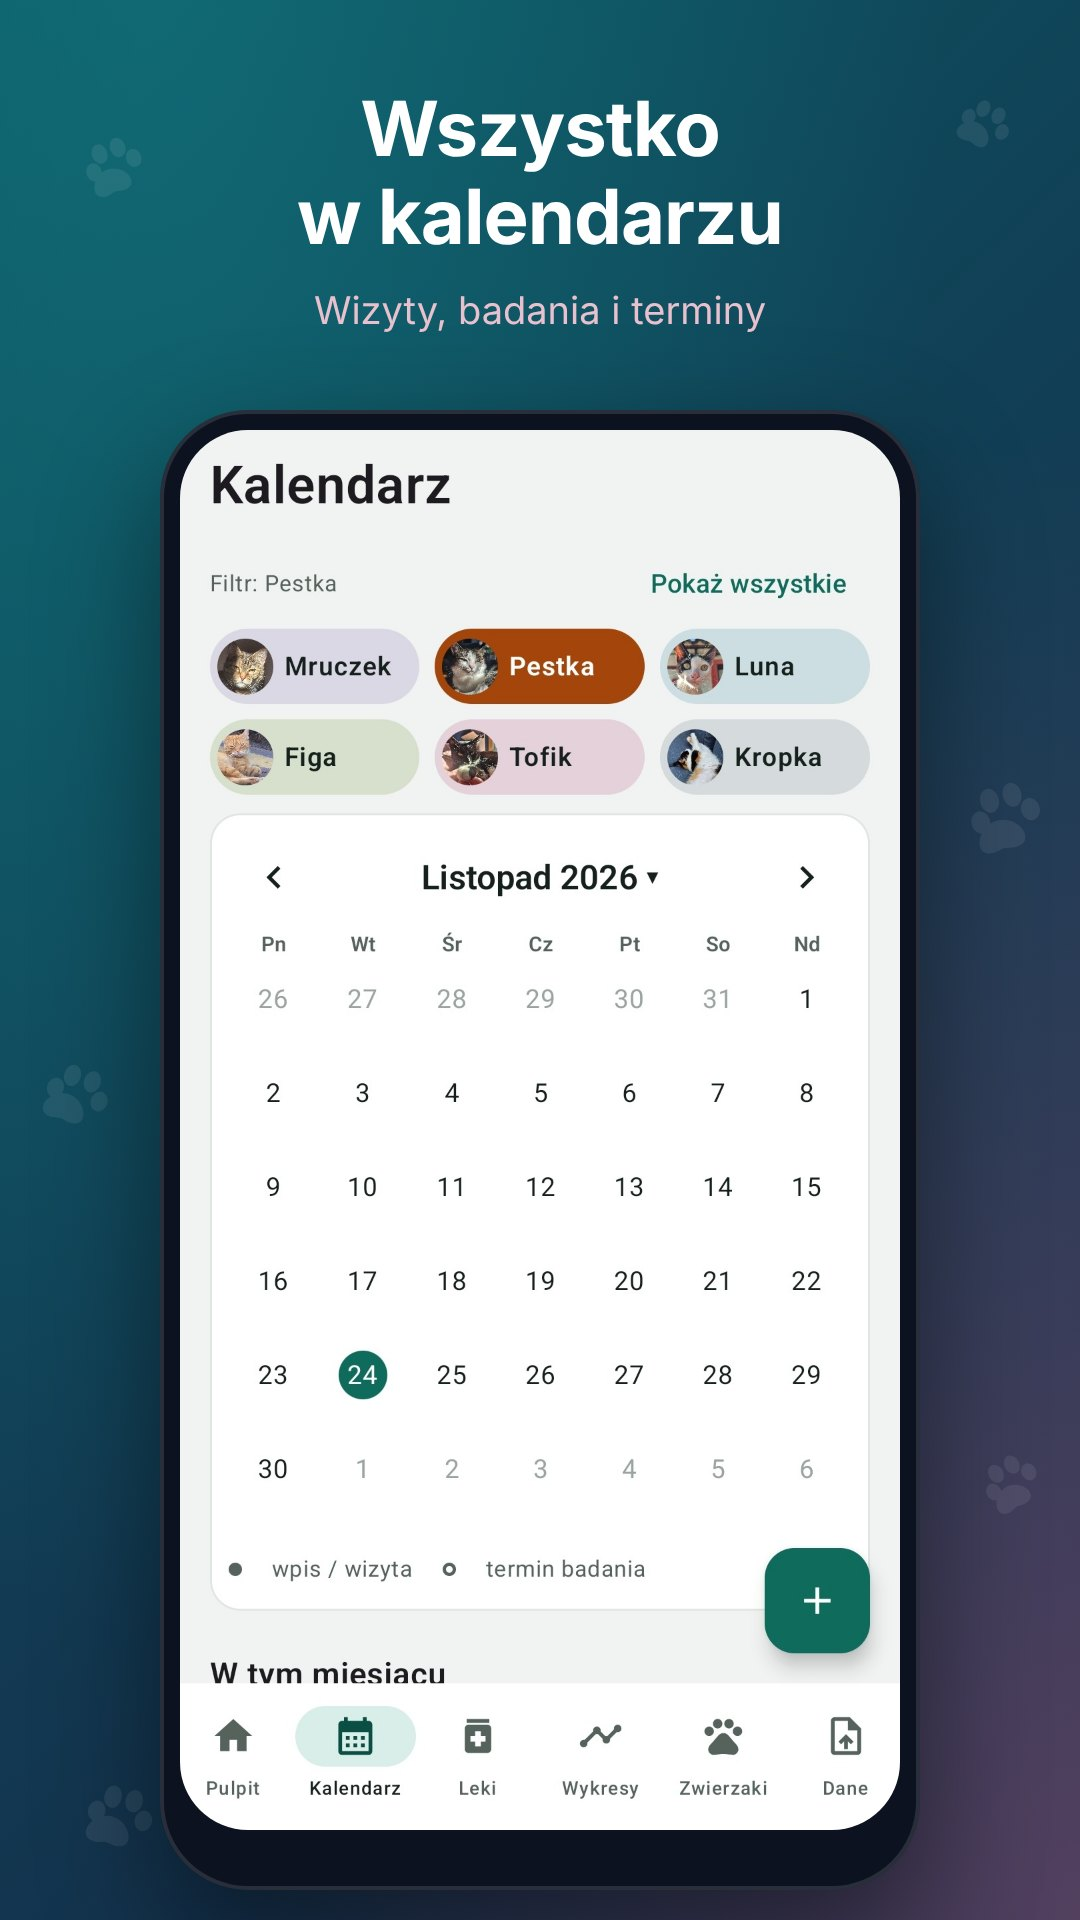
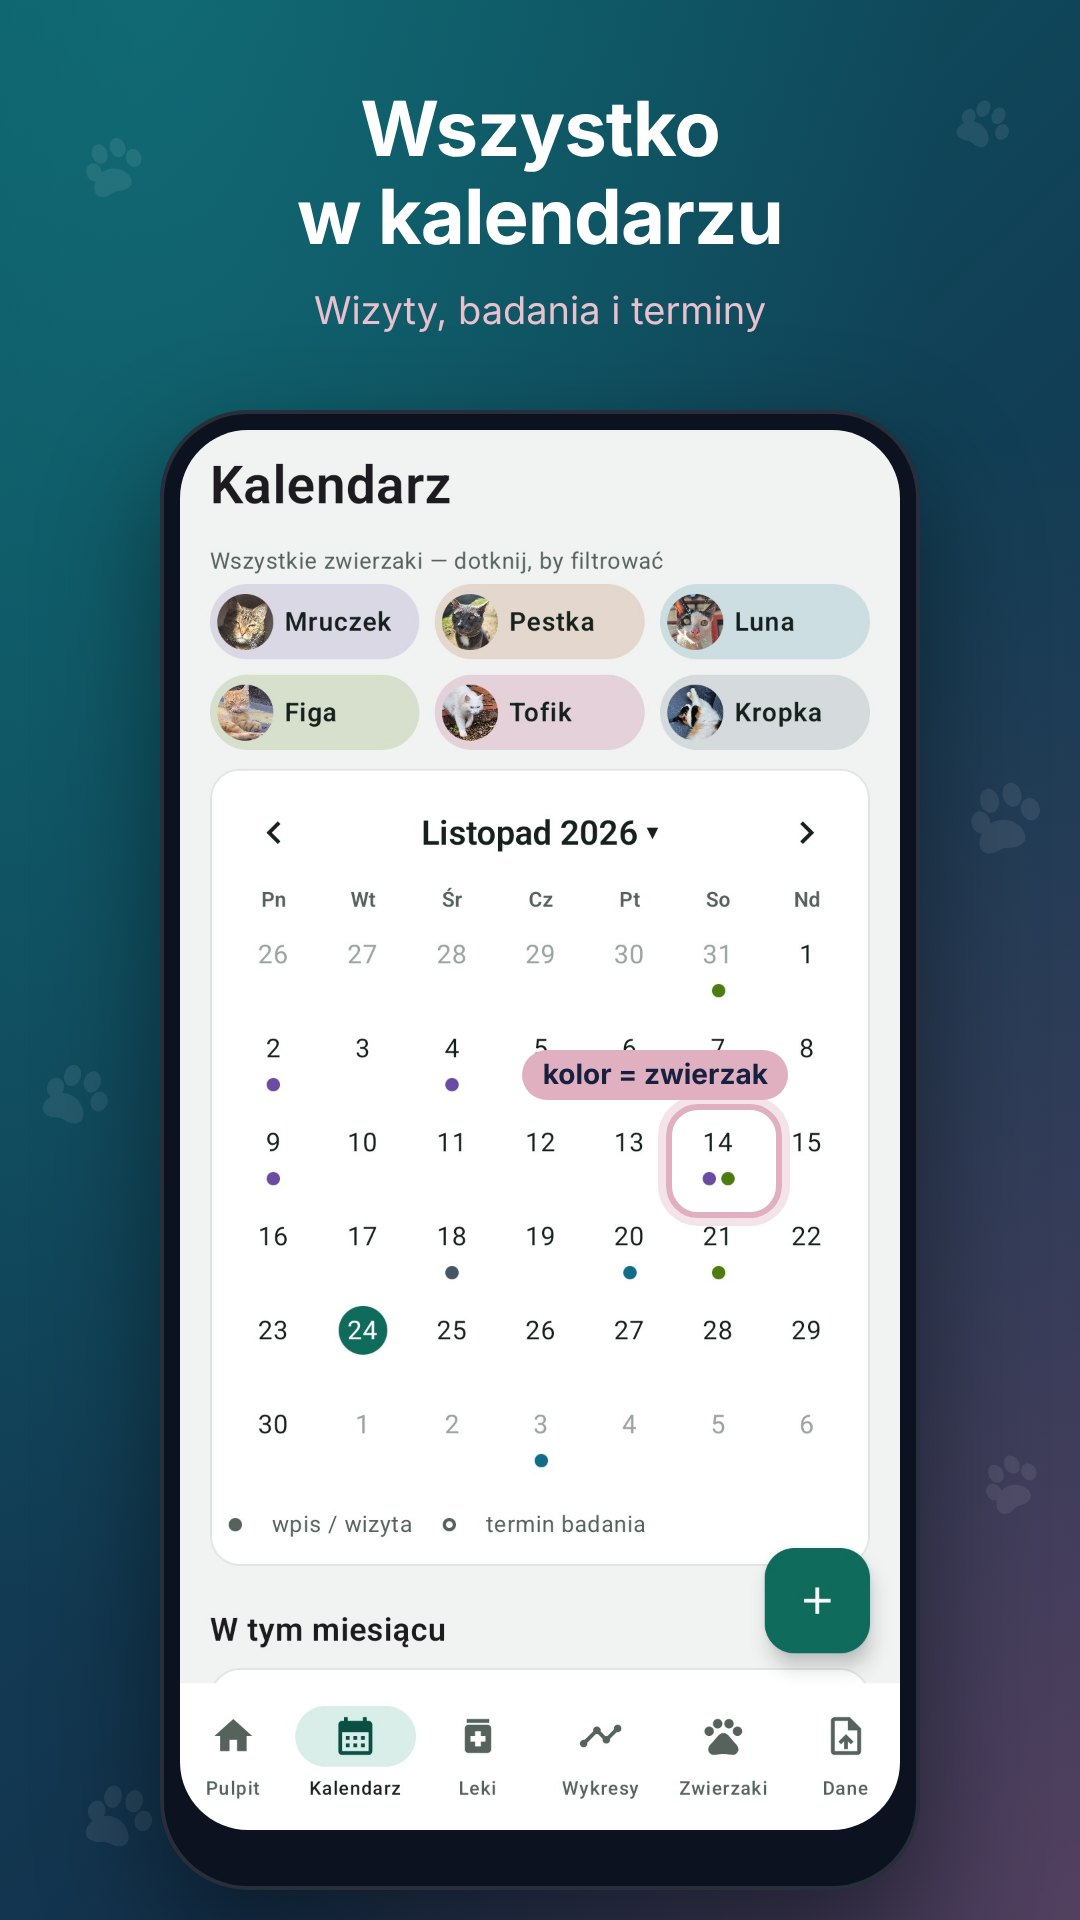
Galeria: nowy zrzut kalendarza (wszystkie zwierzaki)
Claude-Session: https://claude.ai/code/session_01Lz8gJxS2uki7r8oLhaRRUg

diff --git a/tools/galeria.py b/tools/galeria.py
@@ -22,7 +22,7 @@ P = [
     ('leki', 'Leki<br>i ich zapasy', 'Według godzin, z ostrzeżeniem o końcu zapasu', 'Leki i zapasy',
      [('leki.jpg', 580, 1460, []), ('zapasy.jpg', 130, 1050, [(870, 255, 1005, 350, '')])]),
     ('kalendarz', 'Wszystko<br>w kalendarzu', 'Wizyty, badania i terminy', 'Kalendarz',
-     [('kalendarz.jpg', 100, 2200, [])]),
+     [('kalendarz.jpg', 100, 2200, [(745, 1125, 870, 1250, 'kolor = zwierzak')])]),
     ('import', 'Wyniki<br>bez przepisywania', 'Import z PDF, skanów i zdjęć', 'Import wyników',
      [('import.jpg', 100, 2200, [(40, 580, 1040, 700, '')])]),
     ('dane', 'Twoje dane<br>w Twoim telefonie', 'Kopia zapasowa i ciemny motyw', 'Kopia zapasowa i wygląd',
